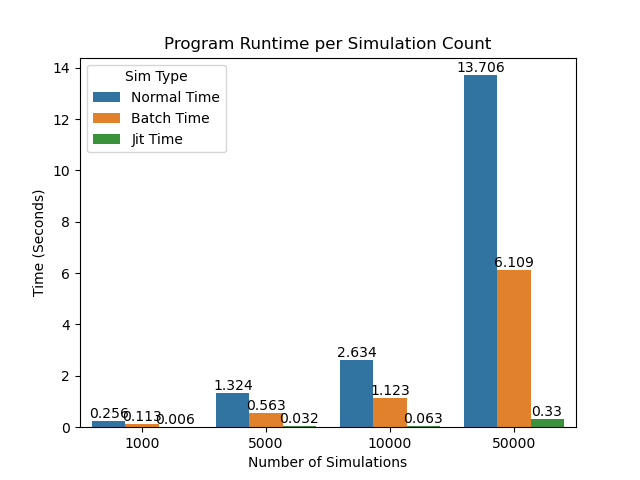
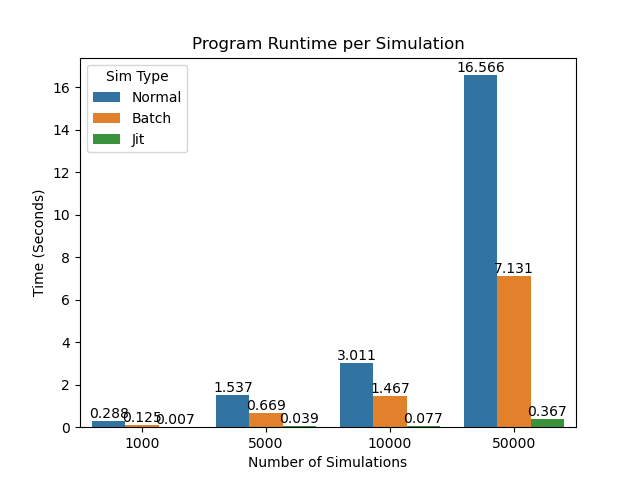
Updated files

diff --git a/runtime.py b/runtime.py
@@ -102,14 +102,14 @@ def main(n_simulations, n_iterations):
     
 
 simulation_lst = [1, 1000, 5000, 10000, 50000]
-df = pd.DataFrame(columns = ['Sim Number', 'Normal Time', 'Batch Time', 'Jit Time'])
+df = pd.DataFrame(columns = ['Sim Number', 'Normal', 'Batch', 'Jit'])
 
 for sim_num in simulation_lst:
     gs_normal_time, gs_batch_time, gs_jit_time = main(sim_num, n_iterations=3)
     # Pandas DataFrame of Results 
     if sim_num == 1:  # JIT compilation slower first run
         continue
-    new_row = {'Sim Number': sim_num, 'Normal Time': round(gs_normal_time,3), 'Batch Time': round(gs_batch_time,3), 'Jit Time': round(gs_jit_time,3)}
+    new_row = {'Sim Number': sim_num, 'Normal': round(gs_normal_time,3), 'Batch': round(gs_batch_time,3), 'Jit': round(gs_jit_time,3)}
     df = df.append(new_row, ignore_index=True)
 
 # Plotting
@@ -124,7 +124,7 @@ try:
 except:
     print('Requires Matplotlib 3.4 for displaying values on graph')
     
-plt.title('Program Runtime per Simulation Count')
+plt.title('Program Runtime per Simulation')
 plt.xlabel('Number of Simulations')
 plt.ylabel('Time (Seconds)')
 plt.savefig('./OutputData/runtime.png')

diff --git a/README.md b/README.md
@@ -10,6 +10,32 @@ this file was entered into <a href="https://www.kaggle.com/c/mens-march-mania-20
 Since there are 68 teams at the beginning of the tournament, there are 2,278 potential matchups. 
 
 ## Monte Carlo Model Parameters
+The Monte Carlo Simulation is based only on the offensive parameters of each team. The stats that were used for each team 
+were the following:
+- Pace
+- Turnover Rate
+- Three Point Shot Probability (What fraction of total shots were three pointers)
+- Two Point Shot Percentage
+- Three Point Shot Percentage
+- Offensive Rebound Rate
+
+The number of simulations between two teams was defined as the number of games played between both of them. Therefore, 100k
+simulations meant 100k games between the two teams. Since each team's pace is the number of possessions per 40 minutes, 
+it was used as the model's parameter for the number of iterations through each game. Pace plays an import role in quantifying
+a win. The intuition behind this logic is similar to the law of large numbers. Teams with a higher pace expect to play
+closer to their "normal" performance, and we expect fewer outliers. The opposite can be considered for teams with a lower pace
+value. When exploring each team's pace per game, there appeared to be a roughly normal distribution as seen below.
+
+<p>
+    <img src="./InputData/duke_pace.png"/>
+    <img src="./InputData/virginia_pace.png"/>
+</p>
+
+During 
+
+Three different models were created 
+
+## Data
 
 ## Files
 
@@ -18,7 +44,14 @@ Since there are 68 teams at the beginning of the tournament, there are 2,278 pot
 ## Runtime 
 ![Runtime Comparison](./OutputData/runtime.png)
 
+The above plot looks at the time it takes to run N number of simulations between two teams using the three different
+models created. Although the runtime will differ across systems, we can see the advantages using the JIT compilation 
+model. When running 100k simulations each model had a mean win probability between the two teams within a 95% confidence
+interval of each other. This validates that the models are performing similarly. Since the models are performing basically
+the same, the JIT model is recommended since it takes drastically less computational time.
+
 ## Results
+Overall the model performed decent within the competition finishing within the top 19% of all participants.
 
 
 ## Future Work
